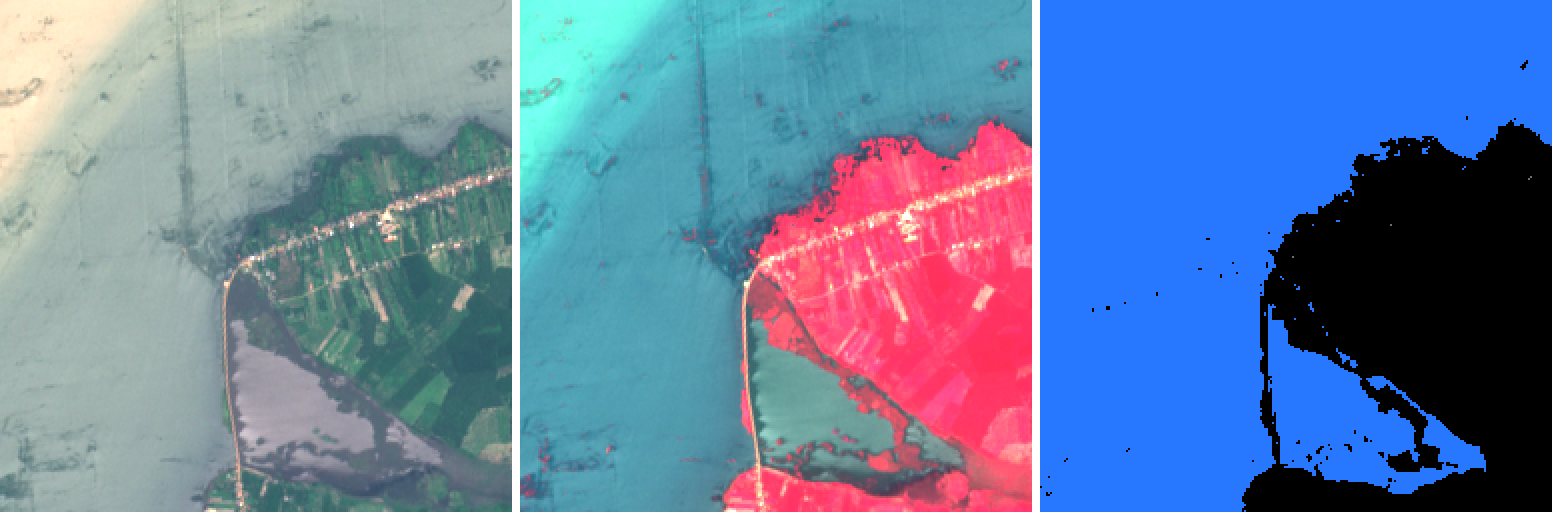
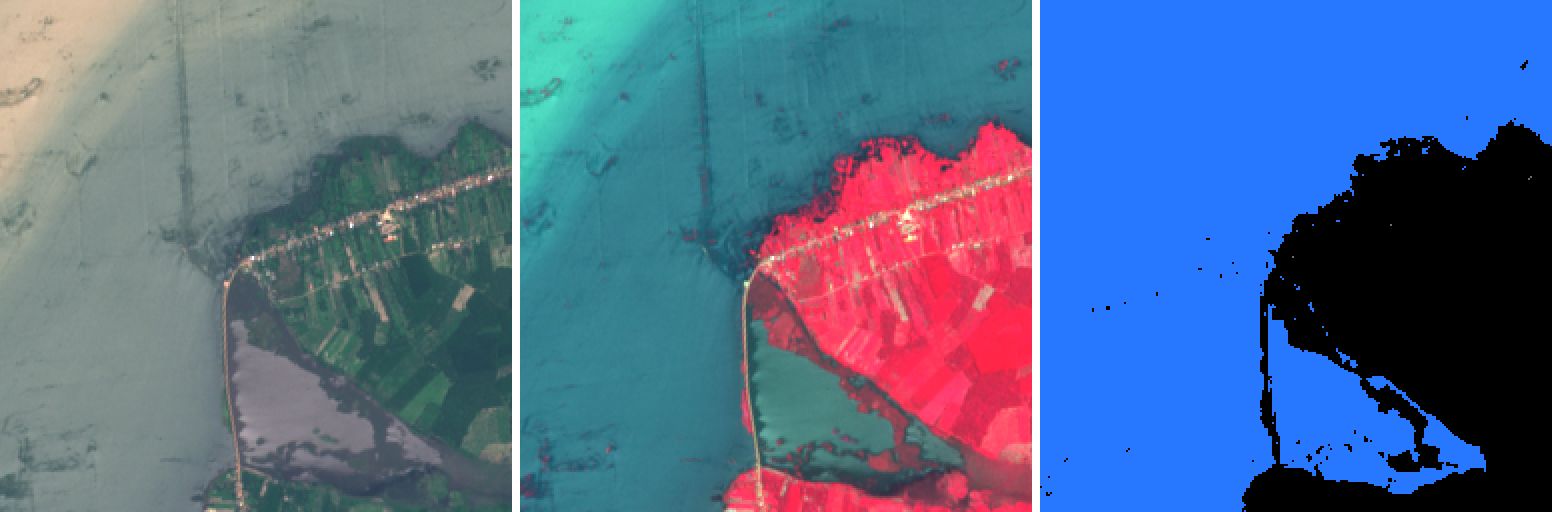
Per-band reflectance clips (RGB 0.5, NIR 0.6) instead of a single 0.4 ceiling
At 0.4, NIR clipped 5.1% of Sen1Floods11 pixels (3.1% OSCD, 1.1% Valencia) and 6-8% of
healthy-vegetation NIR. With per-band ceilings every band clips <= 0.86% in all datasets.
Adds scripts/clip_report.py, docs/clip_report.txt and preprocess tests.

diff --git a/scripts/clip_report.py b/scripts/clip_report.py
@@ -1,0 +1,105 @@
+"""How many pixels sit at the reflectance clip ceiling, per band, per dataset?
+
+    uv run python scripts/clip_report.py
+
+Reads RAW reflectance (before any clipping): OSCD (L1C), Sen1Floods11 (L1C) and the Valencia
+scenes fetched from STAC (L2A). Percentiles use a 1-in-64 pixel subsample; the "above X"
+fractions are exact for OSCD and Valencia and subsampled for Sen1Floods11.
+"""
+
+from __future__ import annotations
+
+import warnings
+from pathlib import Path
+
+import numpy as np
+import rasterio
+
+from impactlens.data import oscd
+from impactlens.data.preprocess import BAND_CLIPS, BAND_NAMES, dn_to_reflectance
+from impactlens.data.sen1floods11 import S2_BAND_INDEXES, read_chip_ids
+
+warnings.filterwarnings("ignore")
+
+OSCD_ROOT = Path("data/raw/oscd")
+S1F_ROOT = Path("data/raw/sen1floods11")
+VALENCIA = Path("data/processed/valencia_albufera")
+THRESHOLDS = (0.3, 0.4, 0.5, 0.6, 0.8)
+
+
+class Acc:
+    """Accumulates exceedance counts and a subsample for one dataset, per band."""
+
+    def __init__(self):
+        self.total = 0
+        self.over = np.zeros((4, len(THRESHOLDS)))
+        self.sample = [[] for _ in range(4)]
+        self.veg_total = 0
+        self.veg_nir_over = np.zeros(len(THRESHOLDS))
+
+    def add(self, refl: np.ndarray) -> None:
+        """refl: (4, H, W) reflectance (blue, green, red, nir) before clipping."""
+        refl = refl.reshape(4, -1)
+        self.total += refl.shape[1]
+        for b in range(4):
+            for k, thr in enumerate(THRESHOLDS):
+                self.over[b, k] += (refl[b] > thr).sum()
+            self.sample[b].append(refl[b][::64])
+        # "healthy vegetation" proxy: NDVI > 0.6
+        red, nir = refl[2], refl[3]
+        ndvi = (nir - red) / np.maximum(nir + red, 1e-6)
+        veg = ndvi > 0.6
+        self.veg_total += veg.sum()
+        for k, thr in enumerate(THRESHOLDS):
+            self.veg_nir_over[k] += (nir[veg] > thr).sum()
+
+    def print(self, title: str) -> None:
+        print(f"\n=== {title}  ({self.total / 1e6:.1f} M pixels) ===")
+        head = "  band   " + "".join(f">{t:<6}" for t in THRESHOLDS) + "  p99    p99.9  max"
+        print(head + "   (% of pixels above threshold)")
+        for b, name in enumerate(BAND_NAMES):
+            s = np.concatenate(self.sample[b])
+            row = "".join(
+                f"{100 * self.over[b, k] / self.total:<7.2f}" for k in range(len(THRESHOLDS))
+            )
+            p99, p999 = np.percentile(s, 99), np.percentile(s, 99.9)
+            print(f"  {name:<6} {row} {p99:.3f}  {p999:.3f}  {s.max():.2f}")
+        if self.veg_total:
+            row = "".join(
+                f"{100 * self.veg_nir_over[k] / self.veg_total:<7.1f}"
+                for k in range(len(THRESHOLDS))
+            )
+            share = 100 * self.veg_total / self.total
+            print(f"  NIR of vegetation (NDVI>0.6, {share:.1f}% of pixels): % above -> {row}")
+        clipped = []
+        for b, name in enumerate(BAND_NAMES):
+            k = THRESHOLDS.index(BAND_CLIPS[b])
+            clipped.append(f"{name}@{BAND_CLIPS[b]} {100 * self.over[b, k] / self.total:.2f}%")
+        print("  currently clipped (per-band ceilings): " + ", ".join(clipped))
+
+
+def main() -> None:
+    acc = Acc()
+    for split in ("train", "test"):
+        for city in oscd.read_split(OSCD_ROOT, split):
+            d = oscd._find_city_dir(OSCD_ROOT, city)
+            for which in (1, 2):
+                acc.add(oscd._read_bands(oscd._band_folder(d, which)))
+    acc.print("OSCD (L1C, all 24 cities, both dates)")
+
+    acc = Acc()
+    for split in ("train", "valid", "test", "bolivia"):
+        for chip in read_chip_ids(S1F_ROOT, split):
+            with rasterio.open(S1F_ROOT / "S2Hand" / f"{chip}_S2Hand.tif") as src:
+                acc.add(dn_to_reflectance(src.read(list(S2_BAND_INDEXES))))
+    acc.print("Sen1Floods11 (L1C, all 446 chips)")
+
+    acc = Acc()
+    for name in ("before", "after"):
+        with rasterio.open(VALENCIA / f"{name}.tif") as src:
+            acc.add(src.read())
+    acc.print("Valencia AOI (L2A, before + after)")
+
+
+if __name__ == "__main__":
+    main()

diff --git a/src/impactlens/data/preprocess.py b/src/impactlens/data/preprocess.py
@@ -1,9 +1,9 @@
 """Shared pixel preprocessing, so OSCD training data and STAC inference data look the same.
 
 Both sources are converted to surface/top-of-atmosphere *reflectance* (0..~1) and then
-normalized with the same fixed function. We deliberately use a fixed global scale (not a
-per-image stretch) so that a real brightness change between the before/after dates is
-preserved instead of being "normalized away".
+normalized with the same fixed function (fixed per-band ceilings). We deliberately use a
+fixed global scale (not a per-image stretch) so that a real brightness change between the
+before/after dates is preserved instead of being "normalized away".
 """
 
 from __future__ import annotations
@@ -16,8 +16,12 @@ BAND_NAMES = ("blue", "green", "red", "nir")
 # Sentinel-2 band IDs for the same four channels (used by the OSCD file names).
 OSCD_BAND_FILES = ("B02", "B03", "B04", "B08")
 
-# Reflectance above this is almost always cloud/bright roof; clip so it doesn't dominate.
-REFLECTANCE_CLIP = 0.4
+# Per-band reflectance ceilings (blue, green, red, nir). Anything brighter is clipped.
+# Chosen from the data (scripts/clip_report.py) so that every band has <= ~1% of pixels at the
+# ceiling in OSCD, Sen1Floods11 and our Valencia scenes. A single 0.4 ceiling clipped 5.1% of
+# Sen1Floods11 NIR (and 6-8% of healthy-vegetation NIR), so a model could not tell healthy
+# crops from merely bright ones. NIR gets more headroom because vegetation is NIR-bright.
+BAND_CLIPS = (0.5, 0.5, 0.5, 0.6)
 
 
 def dn_to_reflectance(dn: np.ndarray, scale: float = 1e-4, offset: float = 0.0) -> np.ndarray:
@@ -28,8 +32,14 @@ def dn_to_reflectance(dn: np.ndarray, scale: float = 1e-4, offset: float = 0.0) 
 
 
 def normalize(reflectance: np.ndarray) -> np.ndarray:
-    """Map reflectance to [0, 1] with a fixed global scale."""
-    return (np.clip(reflectance, 0.0, REFLECTANCE_CLIP) / REFLECTANCE_CLIP).astype(np.float32)
+    """Map reflectance to [0, 1] with fixed per-band ceilings (``BAND_CLIPS``).
+
+    Works on (4, H, W) or batched (N, 4, H, W) arrays: the band axis is always third from last.
+    """
+    if reflectance.ndim < 3 or reflectance.shape[-3] != len(BAND_CLIPS):
+        raise ValueError(f"expected (..., 4, H, W) bands, got shape {reflectance.shape}")
+    clips = np.asarray(BAND_CLIPS, dtype=np.float32).reshape(-1, 1, 1)
+    return (np.clip(reflectance, 0.0, clips) / clips).astype(np.float32)
 
 
 def random_flip_rotate(x: torch.Tensor) -> torch.Tensor:

diff --git a/tests/test_preprocess.py b/tests/test_preprocess.py
@@ -1,0 +1,45 @@
+import numpy as np
+import pytest
+
+from impactlens.data.preprocess import BAND_CLIPS, dn_to_reflectance, normalize
+
+
+def test_each_band_hits_one_exactly_at_its_own_ceiling():
+    refl = np.array(BAND_CLIPS, dtype=np.float32).reshape(4, 1, 1) * np.ones((4, 2, 2))
+    assert np.allclose(normalize(refl), 1.0)
+
+
+def test_nir_has_more_headroom_than_visible_bands():
+    # Reflectance 0.55: saturated in blue/green/red, but NIR (ceiling 0.6) still has resolution.
+    refl = np.full((4, 3, 3), 0.55, dtype=np.float32)
+    out = normalize(refl)
+    assert np.allclose(out[:3], 1.0)
+    assert out[3].max() == pytest.approx(0.55 / 0.6, rel=1e-6) and out[3].max() < 1.0
+    # ...and two bright vegetation NIR values stay distinguishable (they would both be 1.0
+    # with the old single 0.4 ceiling).
+    nir = np.stack([np.full((2, 2), v, np.float32) for v in (0.45, 0.55)])
+    both = normalize(np.concatenate([np.zeros((3, 2, 2), np.float32), nir[:1]]))[3]
+    other = normalize(np.concatenate([np.zeros((3, 2, 2), np.float32), nir[1:]]))[3]
+    assert other.mean() > both.mean()
+
+
+def test_range_monotonic_and_negative_values_clip_to_zero():
+    x = np.linspace(-0.1, 2.0, 50, dtype=np.float32)
+    refl = np.tile(x[None, :, None], (4, 1, 1))
+    out = normalize(refl)
+    assert out.min() == 0.0 and out.max() == 1.0 and out.dtype == np.float32
+    assert (np.diff(out, axis=1) >= 0).all()
+
+
+def test_batched_input_and_bad_shape():
+    batch = np.random.default_rng(0).uniform(0, 1, (5, 4, 8, 8)).astype(np.float32)
+    assert np.allclose(normalize(batch)[2], normalize(batch[2]))
+    with pytest.raises(ValueError):
+        normalize(np.zeros((3, 8, 8), dtype=np.float32))
+
+
+def test_dn_to_reflectance_scale_offset_and_nodata():
+    dn = np.array([0, 1000, 3000], dtype=np.uint16)
+    assert dn_to_reflectance(dn).tolist() == pytest.approx([0.0, 0.1, 0.3])
+    shifted = dn_to_reflectance(dn, offset=-0.1)
+    assert shifted.tolist() == pytest.approx([0.0, 0.0, 0.2])  # DN 0 stays nodata, never negative

diff --git a/tests/test_sen1floods11.py b/tests/test_sen1floods11.py
@@ -6,7 +6,7 @@ import rasterio
 import torch
 from rasterio.transform import from_origin
 
-from impactlens.data.preprocess import REFLECTANCE_CLIP
+from impactlens.data.preprocess import BAND_CLIPS
 from impactlens.data.sen1floods11 import Sen1Floods11Dataset, read_chip_ids
 
 SIZE = 300
@@ -66,8 +66,9 @@ def test_shapes_and_tiling(root):
 
 def test_uses_b2_b3_b4_b8_with_shared_normalization(root):
     img = Sen1Floods11Dataset(root, "train", tile=128)[0]["img"]
-    # DNs of B2, B3, B4, B8 are 200, 300, 400, 800 -> reflectance 0.02 ... 0.08, then /clip.
-    expected = np.array([200, 300, 400, 800]) * 1e-4 / REFLECTANCE_CLIP
+    # DNs of B2, B3, B4, B8 are 200, 300, 400, 800 -> reflectance 0.02 ... 0.08,
+    # then divided by each band's clip ceiling.
+    expected = np.array([200, 300, 400, 800]) * 1e-4 / np.array(BAND_CLIPS)
     assert np.allclose(img.mean(dim=(1, 2)).numpy(), expected, atol=1e-6)
 
 
